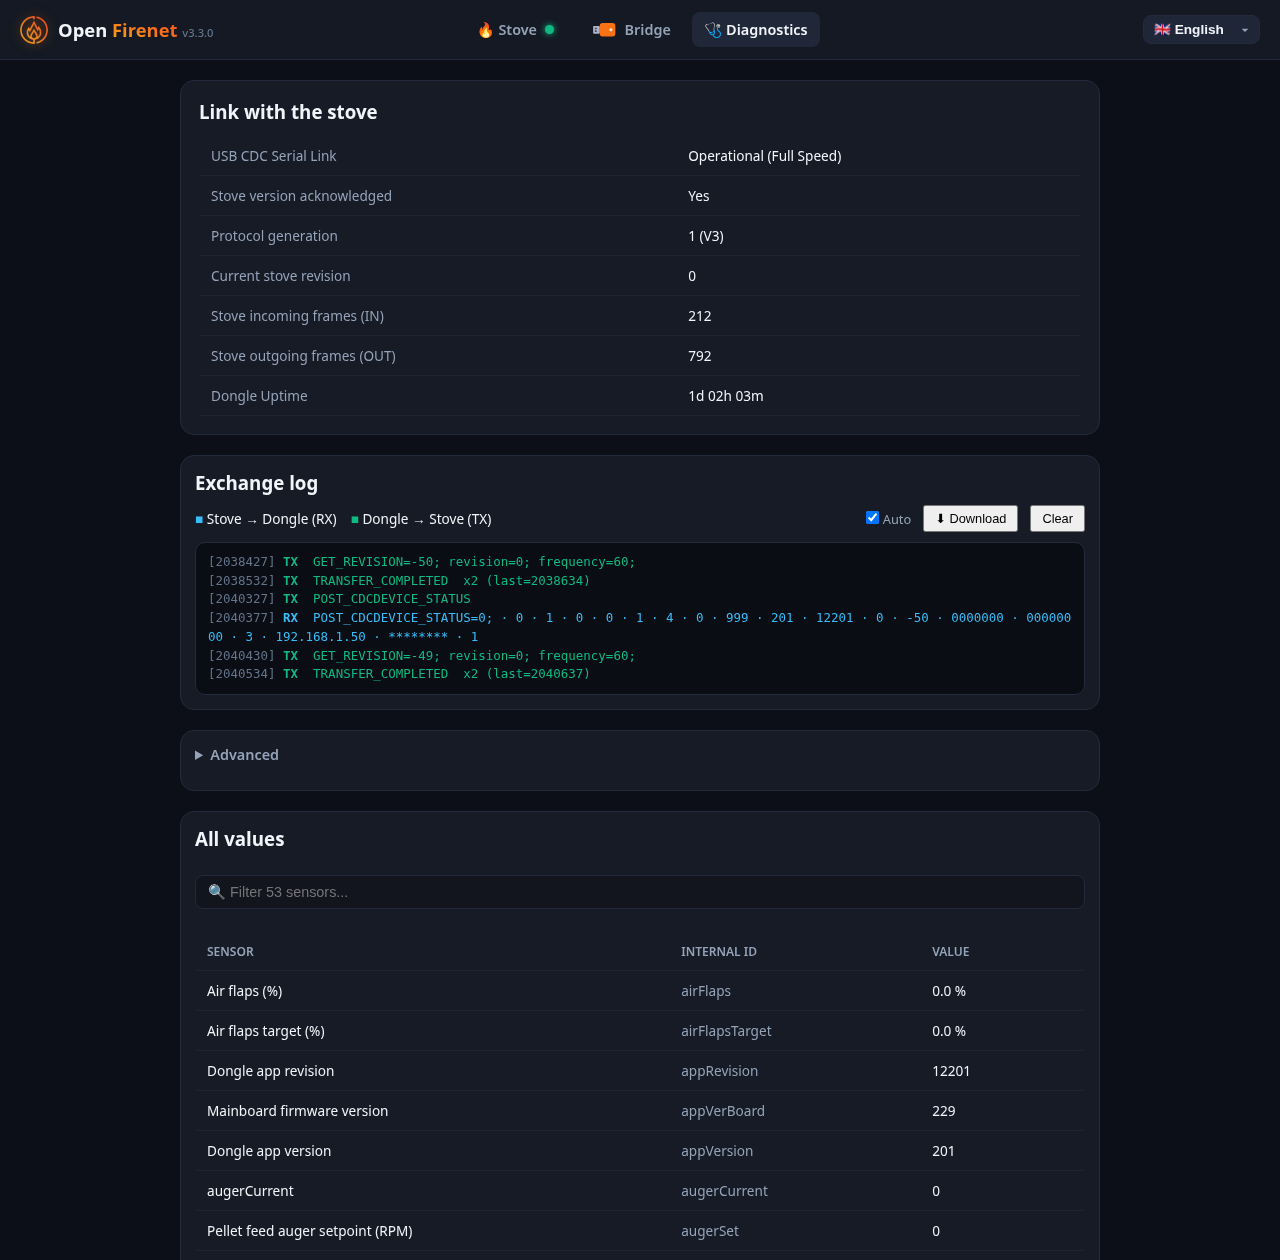
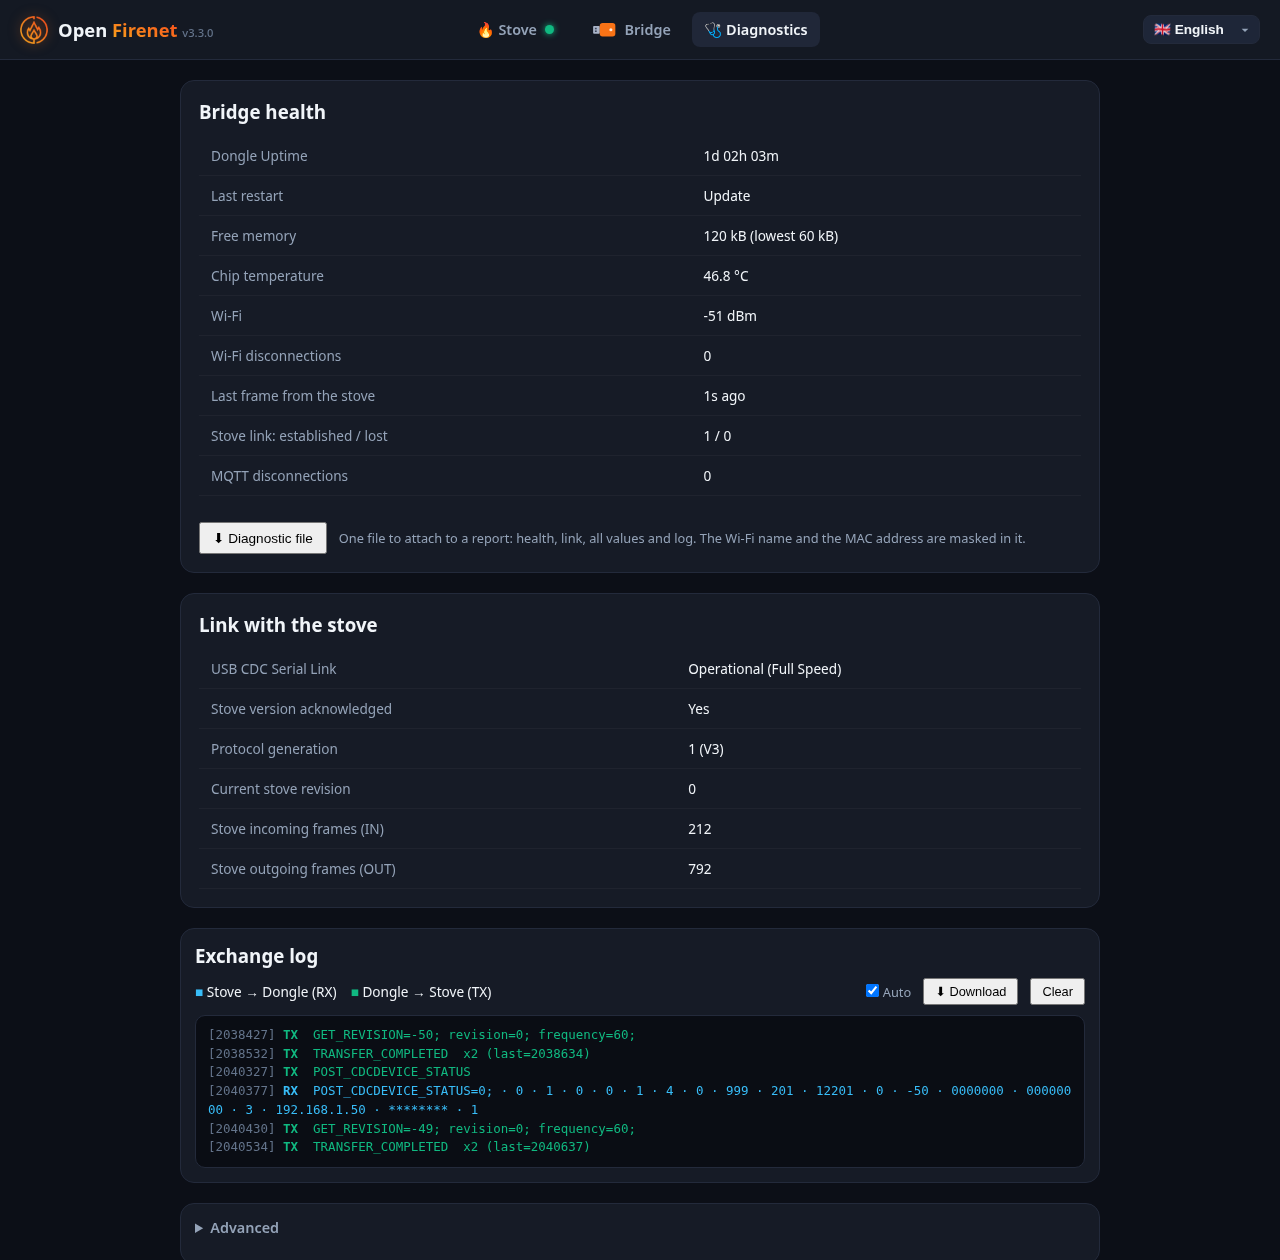
Firmware 3.7.0: bridge health, diagnostic file, API reference

diff --git a/api-reference.html b/api-reference.html
@@ -37,7 +37,7 @@
 </header>
 <main>
 <h1>API reference</h1>
-<p class="lead">Every endpoint of the bridge, with its fields, types, units and ranges. Generated from the <a href="openapi.yaml">OpenAPI description</a> of firmware 3.6.1.</p>
+<p class="lead">Every endpoint of the bridge, with its fields, types, units and ranges. Generated from the <a href="openapi.yaml">OpenAPI description</a> of firmware 3.7.0.</p>
 <p>Local REST API of the Open Firenet bridge, the ESP32-S3 that replaces the RIKA Firenet stick. It is served on your network at <code>http://open-firenet.local</code> (or the bridge's IP address), without key or account.</p>
 <p>Units are natural ones: temperatures in °C, power in percent, readable mode names.</p>
 <p><b>Field names.</b> Only the recommended names are described here, the ones used by the Home Assistant integration and by MQTT. For historical reasons the bridge also accepts older aliases in commands (for example <code>tempRoomTarget</code> for <code>target_temperature</code>, or the plain-text form <code>onOff=1; heatingPower=70;</code>), and <code>GET /api/controls</code> also returns the settings under the stove's own names and units (<code>onOff</code>, <code>tempRoomTarget</code> in tenths of a degree...). New code should not rely on them.</p>
@@ -237,6 +237,21 @@
 </div>
 <h2 id="schemas">Objects</h2>
 <p>The objects exchanged with the bridge, referred to above.</p>
+<h3 id="schema-health">Health</h3>
+<p>How the bridge itself is doing. The counters live in memory and restart from zero at each boot. Also published over MQTT under <code>&lt;base&gt;/health/&lt;name&gt;</code>, except <code>stove_last_frame_seconds</code>.</p>
+<div class="table-wrap">
+<table class="fields">
+  <tr><th>Field</th><th>Type</th><th>Description</th></tr>
+  <tr><td><code>restart_reason</code></td><td><code>power_on</code> | <code>brownout</code> | <code>crash</code> | <code>watchdog</code> | <code>reset_button</code> | <code>usb</code> | <code>user</code> | <code>wifi_change</code> | <code>update</code> | <code>stove_silent</code> | <code>software</code> | <code>unknown</code></td><td>Cause of the last restart: <code>power_on</code> (the stove powered the bridge), <code>brownout</code> (supply voltage too low), <code>crash</code>, <code>watchdog</code> (the program froze), <code>reset_button</code>, <code>usb</code> (reset over USB), <code>user</code> (restart asked through the page or the API), <code>wifi_change</code>, <code>update</code> (wireless update), <code>stove_silent</code> (nothing received from the stove for 60 seconds), <code>software</code> (another restart asked by the firmware)</td></tr>
+  <tr><td><code>min_free_heap</code></td><td>integer</td><td>Lowest free memory since boot, in bytes</td></tr>
+  <tr><td><code>chip_temperature</code></td><td>number or <code>null</code></td><td>Temperature of the chip in °C</td></tr>
+  <tr><td><code>wifi_disconnects</code></td><td>integer</td><td>Wi-Fi connections lost since boot</td></tr>
+  <tr><td><code>stove_last_frame_seconds</code></td><td>integer or <code>null</code></td><td>Seconds since the last byte received from the stove; null when nothing was ever received</td></tr>
+  <tr><td><code>stove_detections</code></td><td>integer</td><td>Times the stove accepted the bridge since boot (1 on a stable link)</td></tr>
+  <tr><td><code>stove_link_losses</code></td><td>integer</td><td>Times the stove dropped an established link since boot</td></tr>
+  <tr><td><code>mqtt_disconnects</code></td><td>integer</td><td>Connections to the broker lost since boot</td></tr>
+</table>
+</div>
 <h3 id="schema-state">State</h3>
 <div class="table-wrap">
 <table class="fields">
@@ -255,6 +270,7 @@
   <tr><td><code>generation</code></td><td>integer</td><td></td></tr>
   <tr><td><code>usb</code> <span class="req">required</span></td><td>object</td><td>USB link diagnostics</td></tr>
   <tr><td><code>mqtt</code></td><td>object</td><td></td></tr>
+  <tr><td><code>health</code></td><td><a href="#schema-health">Health</a></td><td></td></tr>
   <tr><td><code>frames_in</code></td><td>integer</td><td>Frames received from the stove since boot</td></tr>
   <tr><td><code>frames_out</code></td><td>integer</td><td>Frames sent to the stove since boot</td></tr>
   <tr><td><code>revision</code></td><td>integer</td><td></td></tr>

diff --git a/troubleshooting.html b/troubleshooting.html
@@ -126,9 +126,9 @@
 </details>
 
 <h2 id="diagnostics">The Diagnostics tab</h2>
-<p>The Diagnostics tab of the bridge's page (<code>http://open-firenet.local/#diagnostics</code>) gathers what is needed to understand a link problem: the state of the link with the stove, the log of the exchanges with its download button, and every value the stove reports.</p>
+<p>The Diagnostics tab of the bridge's page (<code>http://open-firenet.local/#diagnostics</code>) gathers what is needed to understand a problem: the health of the bridge itself (cause of its last restart, memory, Wi-Fi, how many times the link with the stove was established and lost), the state of the link, the log of the exchanges, and every value the stove reports. The "Diagnostic file" button puts all of it in one file to attach to a report.</p>
 <figure>
-  <img class="shot" src="assets/img/ui-desktop-diagnostics.png" alt="Diagnostics tab: link with the stove, exchange log, all values" width="760">
+  <img class="shot" src="assets/img/ui-desktop-diagnostics.png" alt="Diagnostics tab: bridge health, link with the stove, exchange log" width="760">
 </figure>
 
 <h2>MQTT</h2>
@@ -173,11 +173,11 @@
 <ul>
   <li>the stove model and its firmware version (Info menu of the stove);</li>
   <li>the bridge firmware version (next to the title on its page);</li>
-  <li>the log: Diagnostics tab, "Download" in the exchange log, taken one to two minutes after switching the stove on (on firmware 3.2 and older: CDC Logs tab);</li>
-  <li>the output of <code>http://open-firenet.local/api/state</code>;</li>
+  <li>the diagnostic file: Diagnostics tab, "Diagnostic file", taken one to two minutes after switching the stove on, or right after the problem shows;</li>
   <li>what the stove screen shows, with any code.</li>
 </ul>
-<p>The log hides your Wi-Fi password. The state output contains your network name and the bridge's addresses: remove them if you prefer.</p>
+<p>The diagnostic file holds the bridge health, the link, every value and the exchange log. Your Wi-Fi name and the bridge's MAC address are masked in it, and the Wi-Fi password is never included.</p>
+<p>On bridge firmware 3.6.1 and older there is no such button: send the output of <code>http://open-firenet.local/api/state</code> and the log (Diagnostics tab, "Download" in the exchange log).</p>
 </main>
 <footer class="site-footer">
   <div class="inner">

diff --git a/src/troubleshooting.html b/src/troubleshooting.html
@@ -90,9 +90,9 @@
 </details>
 
 <h2 id="diagnostics">The Diagnostics tab</h2>
-<p>The Diagnostics tab of the bridge's page (<code>http://open-firenet.local/#diagnostics</code>) gathers what is needed to understand a link problem: the state of the link with the stove, the log of the exchanges with its download button, and every value the stove reports.</p>
+<p>The Diagnostics tab of the bridge's page (<code>http://open-firenet.local/#diagnostics</code>) gathers what is needed to understand a problem: the health of the bridge itself (cause of its last restart, memory, Wi-Fi, how many times the link with the stove was established and lost), the state of the link, the log of the exchanges, and every value the stove reports. The "Diagnostic file" button puts all of it in one file to attach to a report.</p>
 <figure>
-  <img class="shot" src="assets/img/ui-desktop-diagnostics.png" alt="Diagnostics tab: link with the stove, exchange log, all values" width="760">
+  <img class="shot" src="assets/img/ui-desktop-diagnostics.png" alt="Diagnostics tab: bridge health, link with the stove, exchange log" width="760">
 </figure>
 
 <h2>MQTT</h2>
@@ -137,8 +137,8 @@
 <ul>
   <li>the stove model and its firmware version (Info menu of the stove);</li>
   <li>the bridge firmware version (next to the title on its page);</li>
-  <li>the log: Diagnostics tab, "Download" in the exchange log, taken one to two minutes after switching the stove on (on firmware 3.2 and older: CDC Logs tab);</li>
-  <li>the output of <code>http://open-firenet.local/api/state</code>;</li>
+  <li>the diagnostic file: Diagnostics tab, "Diagnostic file", taken one to two minutes after switching the stove on, or right after the problem shows;</li>
   <li>what the stove screen shows, with any code.</li>
 </ul>
-<p>The log hides your Wi-Fi password. The state output contains your network name and the bridge's addresses: remove them if you prefer.</p>
+<p>The diagnostic file holds the bridge health, the link, every value and the exchange log. Your Wi-Fi name and the bridge's MAC address are masked in it, and the Wi-Fi password is never included.</p>
+<p>On bridge firmware 3.6.1 and older there is no such button: send the output of <code>http://open-firenet.local/api/state</code> and the log (Diagnostics tab, "Download" in the exchange log).</p>

diff --git a/mqtt.html b/mqtt.html
@@ -63,7 +63,8 @@
   <tr><td><code>openfirenet/&lt;section&gt;/&lt;name&gt;</code></td><td>The same values, one per topic, for systems that prefer plain values: <code>openfirenet/sensors/room_temperature</code>, <code>openfirenet/stove/state</code>, <code>openfirenet/controls/on</code>...</td></tr>
 </table>
 </div>
-<p>Everything is published with the retain flag, so a client gets the current values as soon as it subscribes. <code>openfirenet/device/connected</code> tells whether the bridge is linked to the stove; until it is, only the <code>device</code> values are published.</p>
+<p>Everything is published with the retain flag, so a client gets the current values as soon as it subscribes. <code>openfirenet/device/connected</code> tells whether the bridge is linked to the stove; until it is, only the <code>device</code> and <code>health</code> values are published.</p>
+<p>Since firmware 3.7, <code>openfirenet/health/&lt;name&gt;</code> tells how the bridge itself is doing: <code>restart_reason</code> (cause of its last restart), <code>min_free_heap</code>, <code>chip_temperature</code>, <code>wifi_disconnects</code>, <code>stove_detections</code>, <code>stove_link_losses</code> and <code>mqtt_disconnects</code>. The counters restart from zero at each boot. An alert on <code>stove_link_losses</code> or on a change of <code>restart_reason</code> tells you when something went wrong.</p>
 
 <h2>Send commands</h2>
 <div class="table-wrap">

diff --git a/src/mqtt.html b/src/mqtt.html
@@ -27,7 +27,8 @@
   <tr><td><code>openfirenet/&lt;section&gt;/&lt;name&gt;</code></td><td>The same values, one per topic, for systems that prefer plain values: <code>openfirenet/sensors/room_temperature</code>, <code>openfirenet/stove/state</code>, <code>openfirenet/controls/on</code>...</td></tr>
 </table>
 </div>
-<p>Everything is published with the retain flag, so a client gets the current values as soon as it subscribes. <code>openfirenet/device/connected</code> tells whether the bridge is linked to the stove; until it is, only the <code>device</code> values are published.</p>
+<p>Everything is published with the retain flag, so a client gets the current values as soon as it subscribes. <code>openfirenet/device/connected</code> tells whether the bridge is linked to the stove; until it is, only the <code>device</code> and <code>health</code> values are published.</p>
+<p>Since firmware 3.7, <code>openfirenet/health/&lt;name&gt;</code> tells how the bridge itself is doing: <code>restart_reason</code> (cause of its last restart), <code>min_free_heap</code>, <code>chip_temperature</code>, <code>wifi_disconnects</code>, <code>stove_detections</code>, <code>stove_link_losses</code> and <code>mqtt_disconnects</code>. The counters restart from zero at each boot. An alert on <code>stove_link_losses</code> or on a change of <code>restart_reason</code> tells you when something went wrong.</p>
 
 <h2>Send commands</h2>
 <div class="table-wrap">

diff --git a/contribute.html b/contribute.html
@@ -50,7 +50,7 @@
 </ul>
 
 <h2>Report a problem</h2>
-<p>A good report saves several round trips: the stove model and firmware version, the bridge version, the log and the output of <code>/api/state</code>. The issue form asks for each of them, and <a href="troubleshooting.html#report">Troubleshooting</a> tells where to find them.</p>
+<p>A good report saves several round trips: the stove model and firmware version, the bridge version and the diagnostic file of the bridge. The issue form asks for each of them, and <a href="troubleshooting.html#report">Troubleshooting</a> tells where to find them.</p>
 <p>If you are willing to try a test build on your stove when we look for a fix, say so in the issue: that is how firmware 2.26, 2.27 and 2.28 got supported.</p>
 
 <h2>Translate</h2>

diff --git a/src/contribute.html b/src/contribute.html
@@ -14,7 +14,7 @@
 </ul>
 
 <h2>Report a problem</h2>
-<p>A good report saves several round trips: the stove model and firmware version, the bridge version, the log and the output of <code>/api/state</code>. The issue form asks for each of them, and <a href="troubleshooting.html#report">Troubleshooting</a> tells where to find them.</p>
+<p>A good report saves several round trips: the stove model and firmware version, the bridge version and the diagnostic file of the bridge. The issue form asks for each of them, and <a href="troubleshooting.html#report">Troubleshooting</a> tells where to find them.</p>
 <p>If you are willing to try a test build on your stove when we look for a fix, say so in the issue: that is how firmware 2.26, 2.27 and 2.28 got supported.</p>
 
 <h2>Translate</h2>
